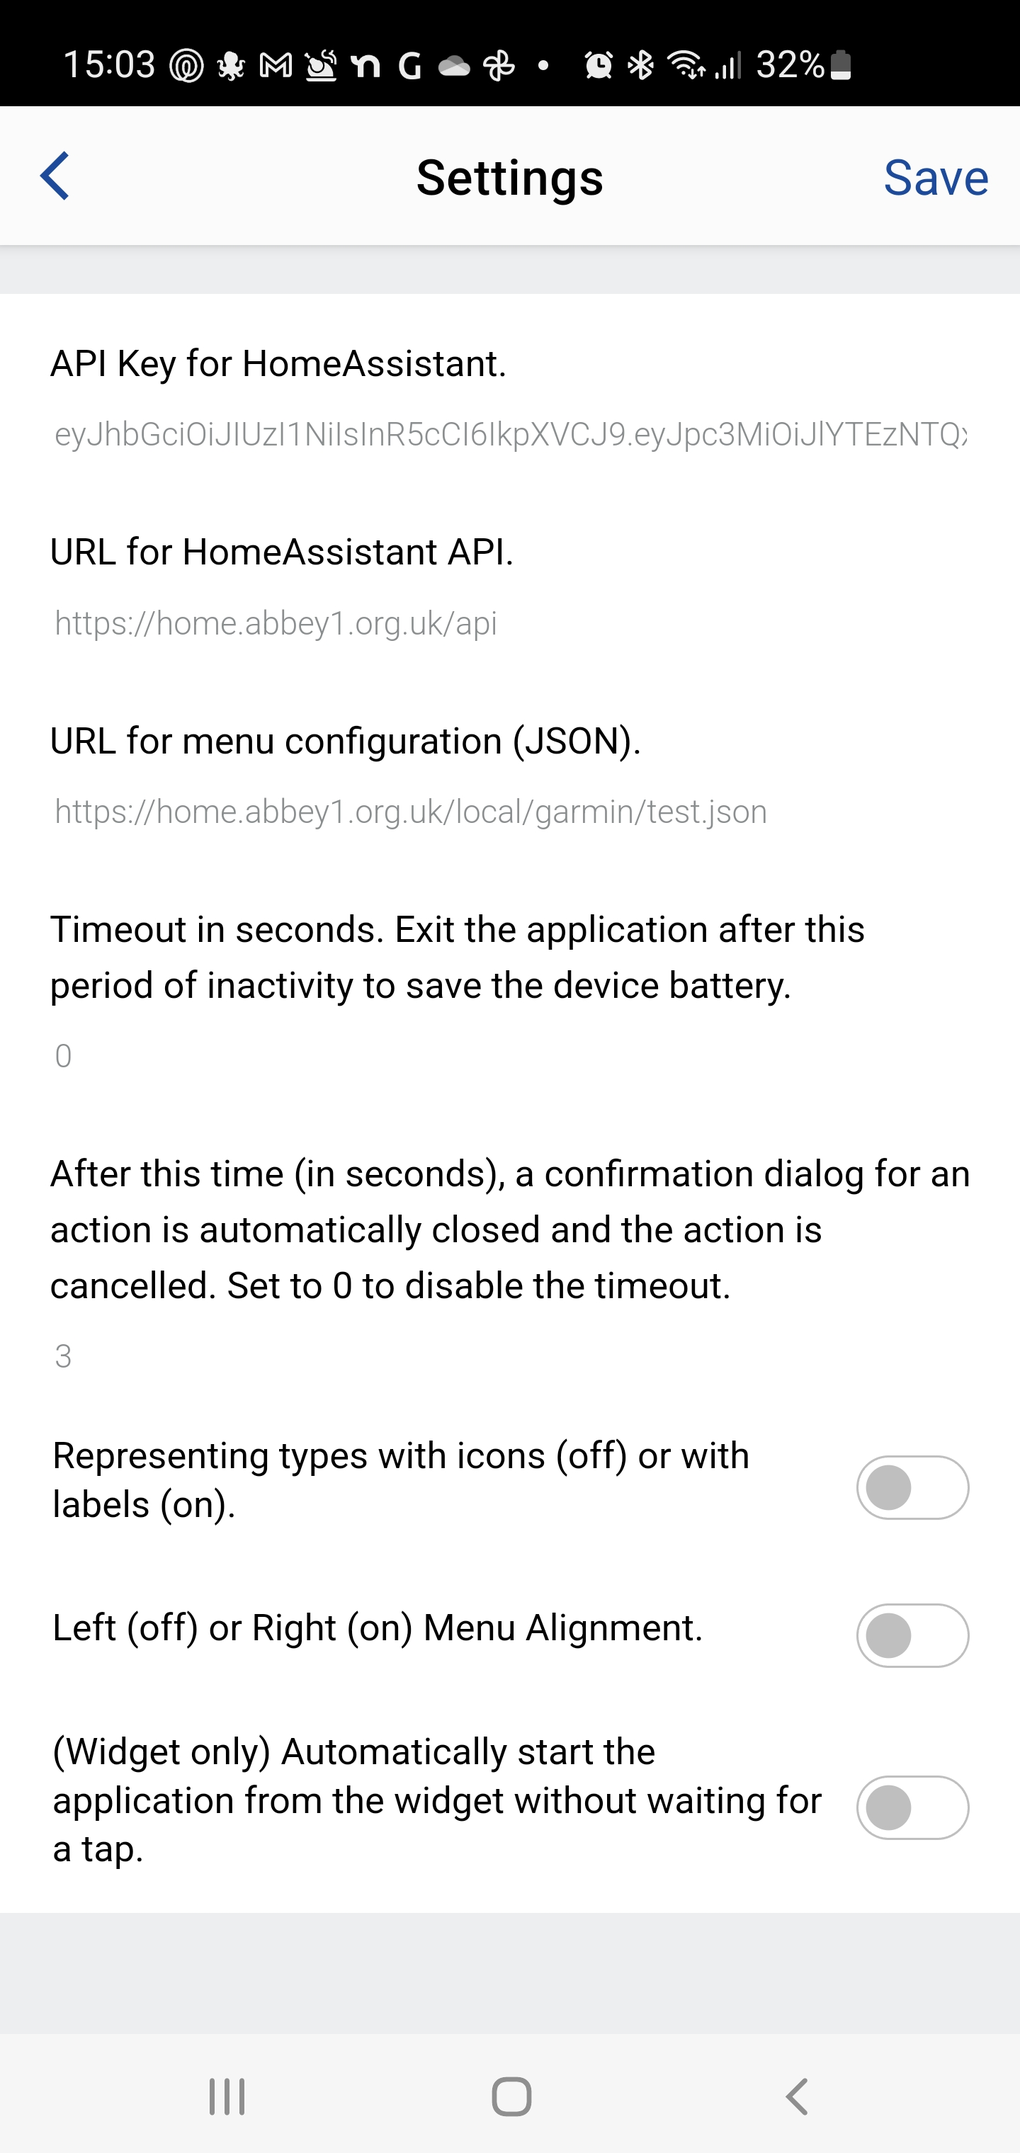
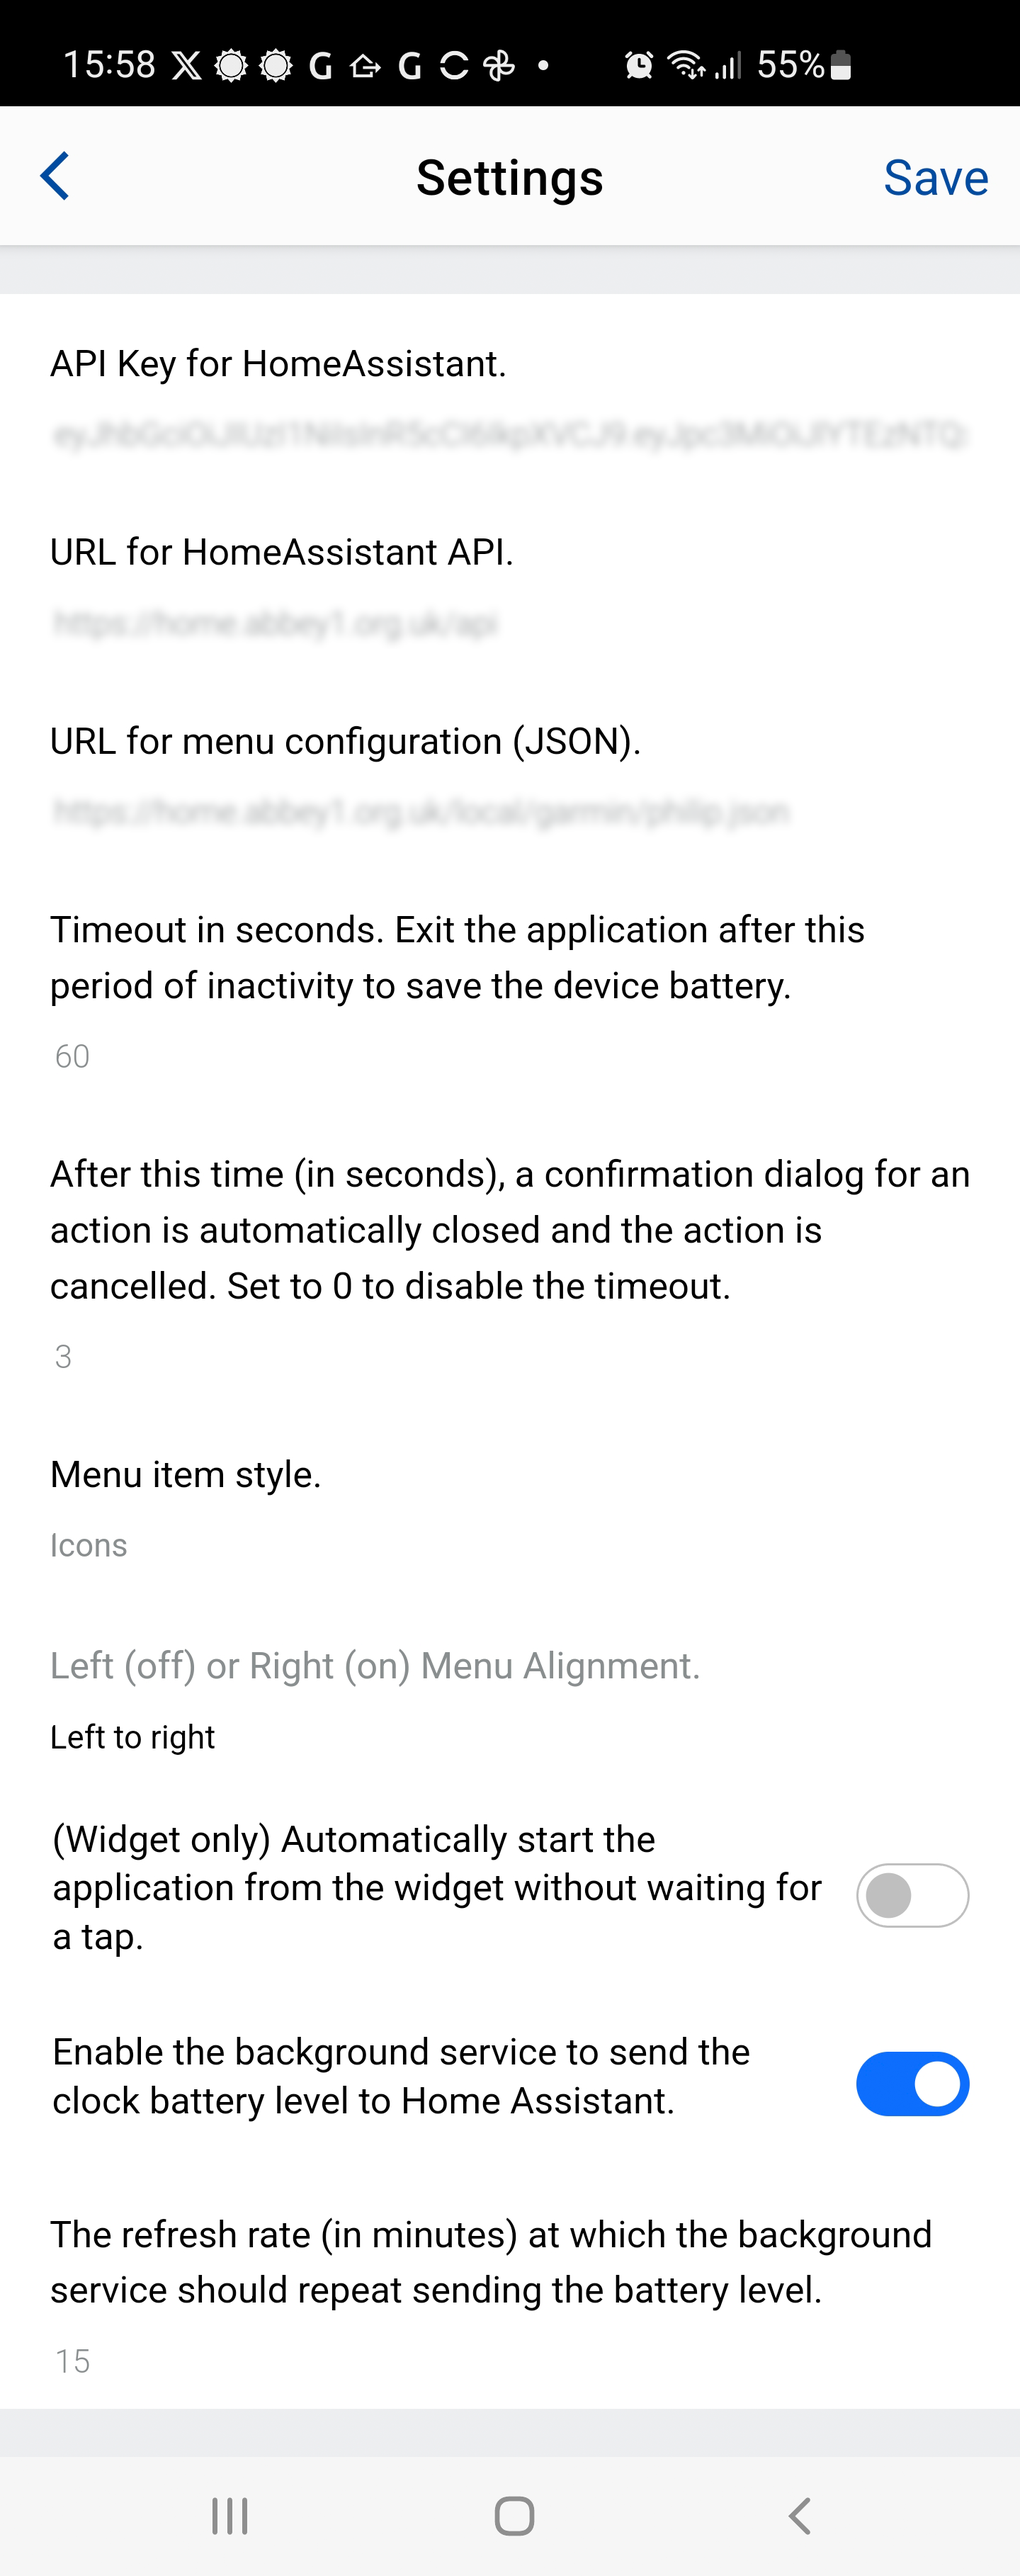
Update to documentation

diff --git a/BatteryReporting.md b/BatteryReporting.md
@@ -1,8 +1,40 @@
 # Battery Reporting
 
-# TODO: app settings config and screen shots for getting the device id
+From version 2.1 the application includes a background service to report the current device battery level and charging status back to Home Assistant. This is a feature that Garmin omitted to include with the Bluetooth connection.
 
-The watch will send HTTP requests to HomeAssistant every 5 minutes in a background service. The events produced by the HTTP requests can be listened for with a template entity. In this case we have two (battery level and is charging).
+## Start Reporting
+
+The main drawback of this solution is that the Garmin application must be run once with the feature enabled in the settings before reporting will start. Reporting continues after you have exited the application. This is a limit we cannot code around.
+
+## Stop Reporting
+
+To stop the reporting, the option must be turned off in the settings and then the application run once. Running the application then removes the background service.
+
+In both cases, the enable and repeat time settings can be changed whilst the application is running (i.e. live) and the background service will be amended.
+
+## Listening for the `device_id`
+
+<img src="images/Battery_Event_Screenshot.png" width="600" title="Listening for battery events"/>
+
+```yaml
+event_type: garmin.battery_level
+data:
+  level: 45.072266
+  device_id: e1004acb747607bc205a6ff7bd05a4c12faf3d6d
+  is_charging: false
+origin: REMOTE
+time_fired: "2024-01-01T18:15:35.900991+00:00"
+context:
+  id: 01HK33T06WW4D9NEXJ9F6SRYNY
+  parent_id: null
+  user_id: 35e0e5a7e4bc49e9a328743697c58b90
+```
+
+The `device_id` is consistent for our purposes. It does change between devices and also between the 'application' and 'widget' installations. Different device model simulators also vary the `device_id`. Here we want to extract `e1004acb747607bc205a6ff7bd05a4c12faf3d6d` for use in the sample YAML `trigger` above.
+
+## Setting up the trigger to update the entity
+
+The watch will send HTTP requests to HomeAssistant every 5+ minutes in a background service. The events produced by the HTTP requests can be listened for with a template entity. In this case we have two (battery level and is charging).
 
 ```yaml
   - trigger:
@@ -37,4 +69,8 @@ The watch will send HTTP requests to HomeAssistant every 5 minutes in a backgrou
 1. Copy this yaml to your `configuration.yaml`.
 2. Swap `<device-name>` for the name of your device (This can be anything and is purely for the UI). Swap `<uid-0>` and `<uid-1>` for two different unique identifiers (in the Studio Code Server these can be generated from the right click menu).
 3. Open the [event dashboard](https://my.home-assistant.io/redirect/developer_events/) and start listening for `garmin.battery_level` events and when your recieve one copy the device id and replace `<device-id>` with it (to speed up this process you can close and reopen the GarminHomeAssistant app).
-4. Restart HomeAssistant or reload the yaml [here](https://my.home-assistant.io/redirect/server_controls/).
+4. Restart HomeAssistant or reload the YAML [here](https://my.home-assistant.io/redirect/server_controls/).
+
+## Adding a sample Home Assistant UI widget
+
+## TODO: YAML for a dashboard

diff --git a/README.md b/README.md
@@ -265,6 +265,10 @@ The `id` attribute values are taken from the same names used in [`strings.xml`](
 * The Python script will use the corrections in preference to translating, and
 * Your pull request will be honoured without comment as we will take your corrections on trust.
 
+## Battery Level Reporting
+
+The application and widget both now include a background service to report your watch's battery level and charging status. This requires [significant setup](BatteryReporting.md) via YAML in Home Assistant to work. This is not for the feint hearted!
+
 ## Version History
 
 | Version | Comment |
@@ -278,7 +282,7 @@ The `id` attribute values are taken from the same names used in [`strings.xml`](
 |   1.6   | Added a user configurable 'timeout' in seconds so that when no action is taken the application automatically closes, stopping the continuous polling for changes of status and hence saving the drain on the battery. This can be disabled with timeout=0. |
 |   1.7   | Added timeout to confirmation views so that when used for security devices it does not linger when left unconfirmed. Thanks to [Jan Schneider](https://github.com/j-a-n) for the contribution. Known bug for devices not supporting [`WatchUi.getCurrentView()`](https://developer.garmin.com/connect-iq/api-docs/Toybox/WatchUi.html#getCurrentView-instance_function) API call which is only available on API Level 3.4.0, e.g. Vivoactive 4S. |
 |   2.0   | A significant code base change to enable both a 'widget' version for older devices, e.g. Venu (1), and an application with a glance, e.g. Venu2. These two versions must now be distributed under separate application IDs, but they have the same code base. A further 20 more devices are now supported, the settings have been internationalised, and there's a bug fix for older devices when trying to display a helpful error message but instead the application crashed. This version has come from a significant collaboration with [Someone0nEarth](https://github.com/Someone0nEarth). |
-|   2.1   | Deployment of an idea to provide Home Assistant with access to the watch battery level. Using this requires significant setup on the Home Assistant configuration and will be detailed separately. Due to this, the default state for this battery option is _off_. Changed the application settings user interface to be more intuitive, and hence amended the way settings are managed in the background. |
+|   2.1   | Deployment of an idea to provide Home Assistant with access to the watch battery level. Using this requires [significant setup](BatteryReporting.md) on the Home Assistant configuration and will be detailed separately. Due to this, the default state for this battery option is _off_. Changed the application settings user interface to be more intuitive, and hence amended the way settings are managed in the background. |
 
 ## Known Issues
 
